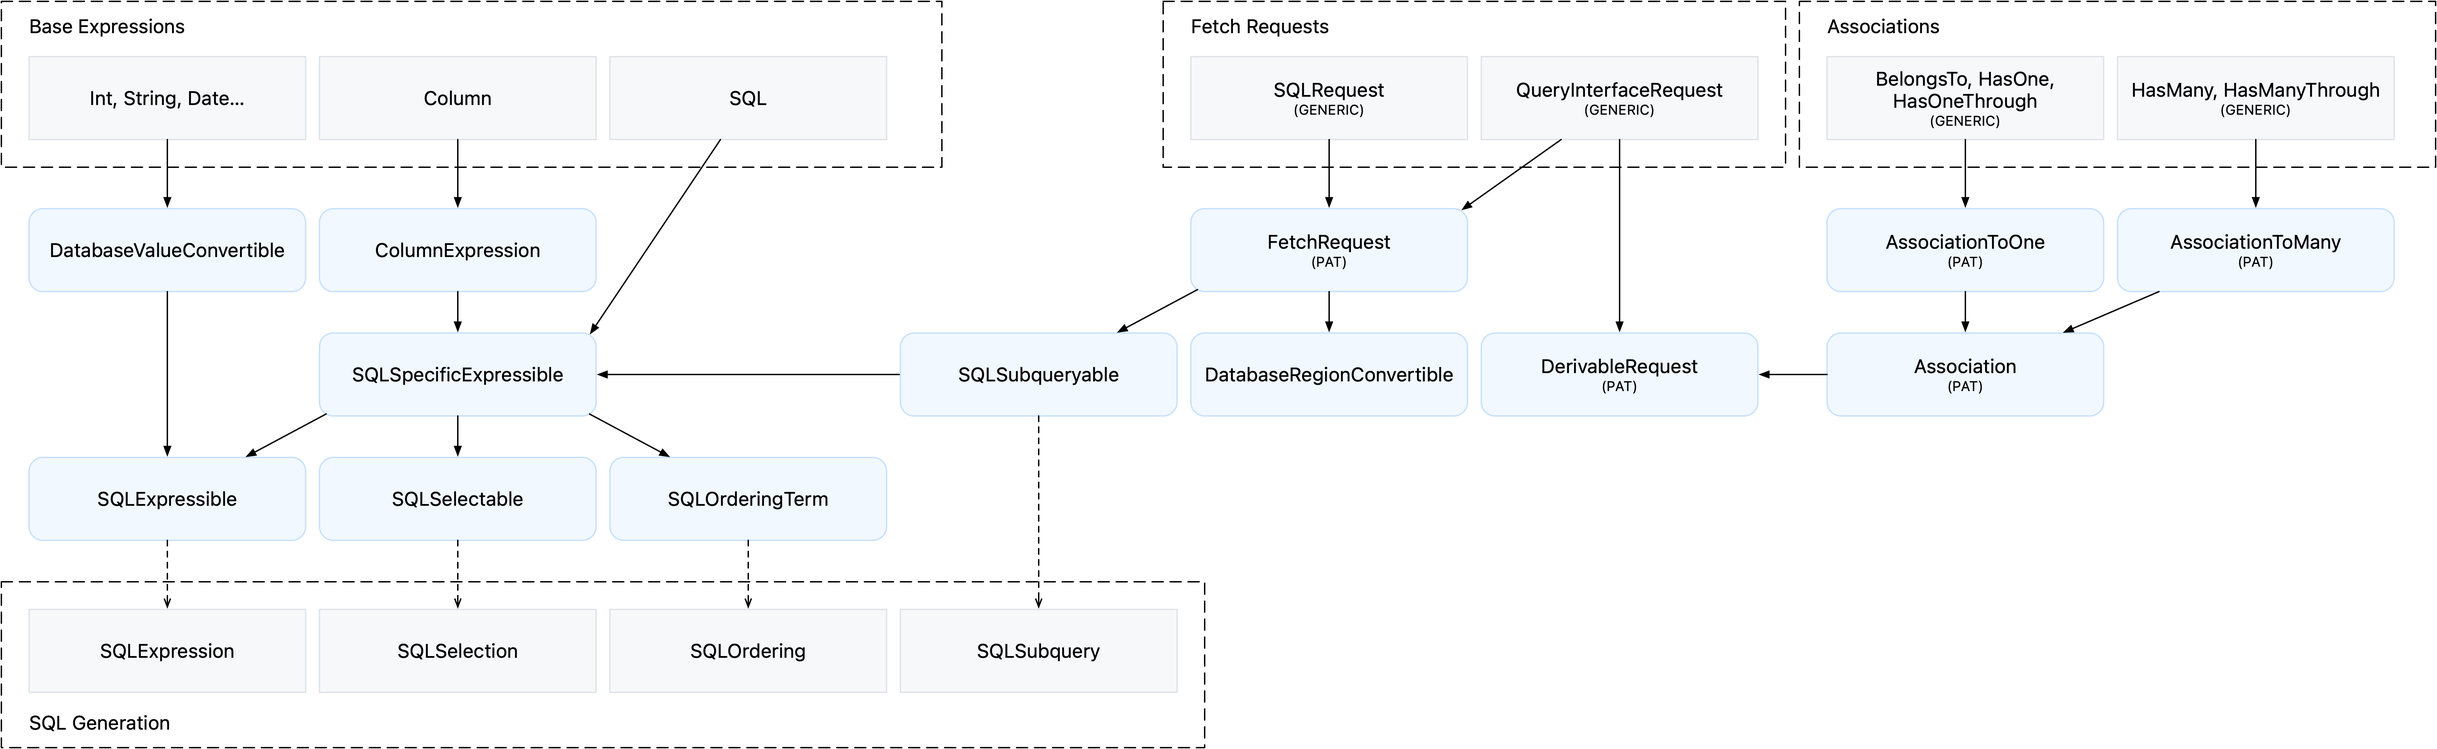
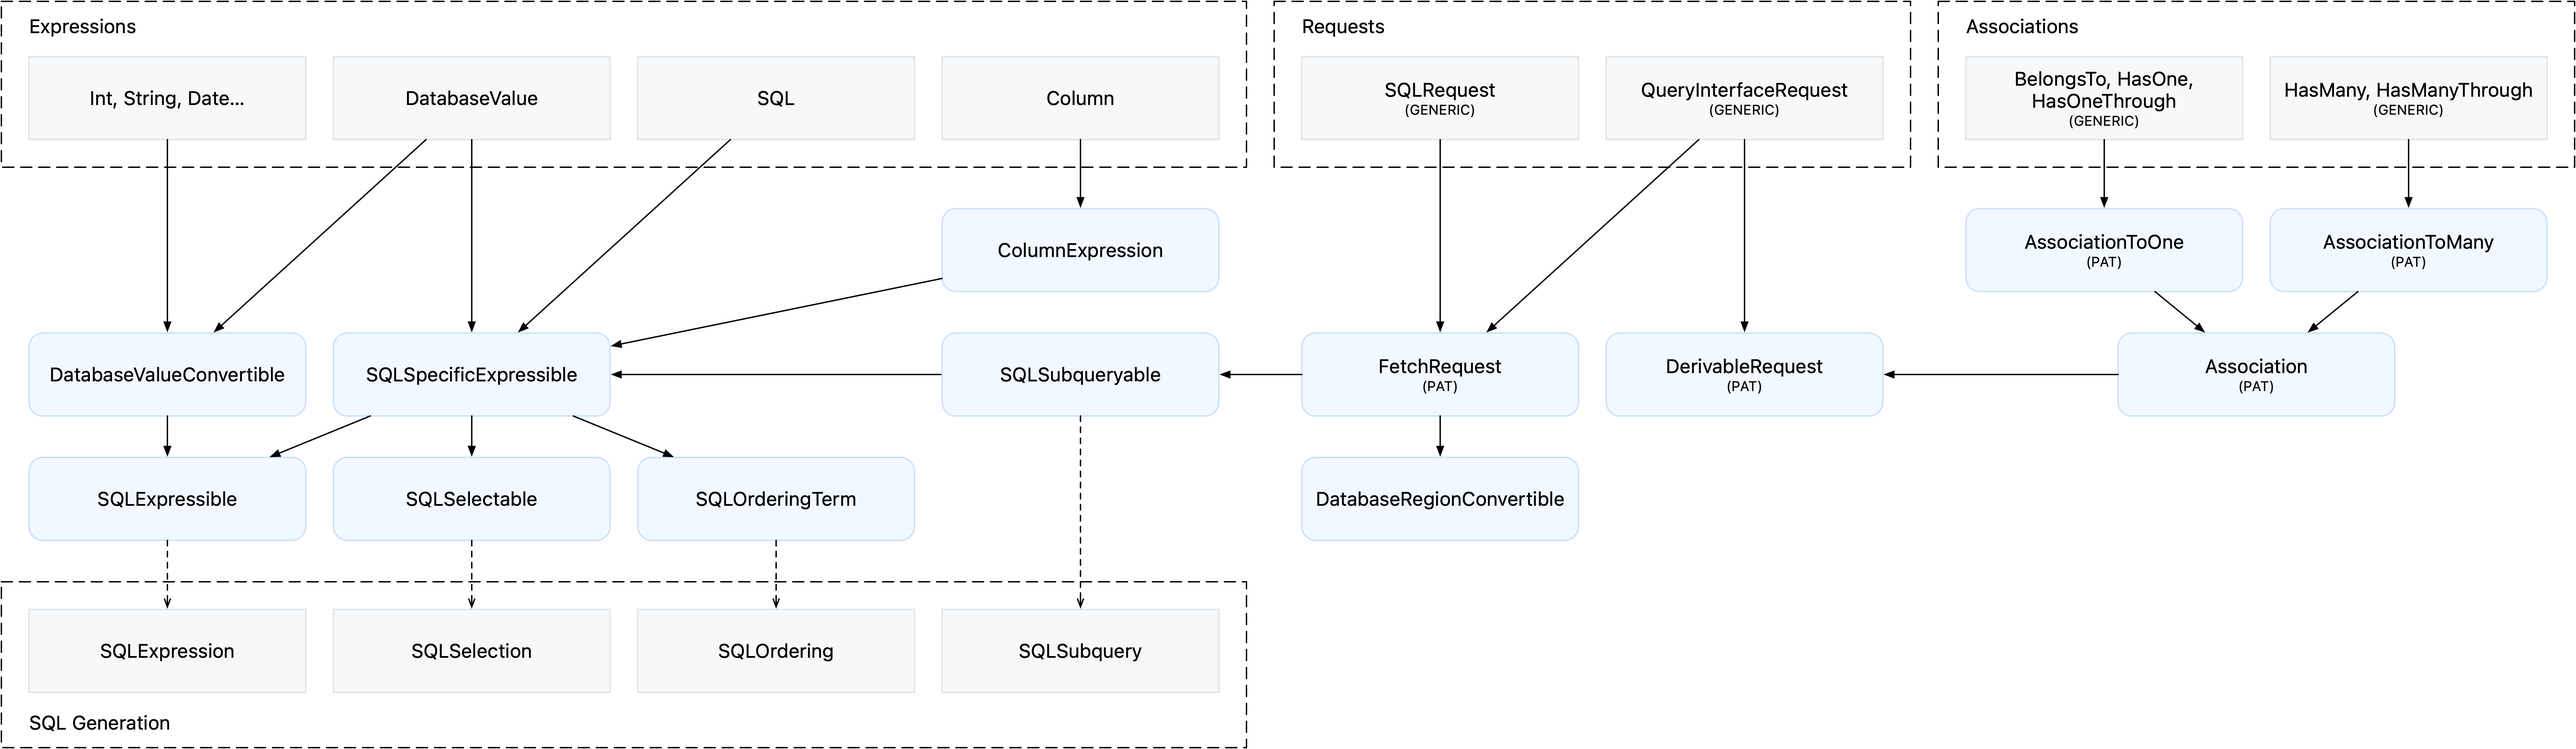
Query Interface Organization

diff --git a/Documentation/QueryInterfaceOrganization.md b/Documentation/QueryInterfaceOrganization.md
@@ -13,6 +13,7 @@ Diagram items are described below:
 - [Column]
 - [ColumnExpression]
 - [DatabaseRegionConvertible]
+- [DatabaseValue]
 - [DatabaseValueConvertible]
 - [DerivableRequest]
 - [FetchRequest]
@@ -134,10 +135,32 @@ let observer = try observation.start(in: dbQueue) { (db: Database) in
 }
 ```
 
+### DatabaseValue
+
+`DatabaseValue` is the type for SQL values (integers, doubles, strings, blobs, and NULL). It conforms to [SQLSpecificExpressible].
+
+You generally build a DatabaseValue from a [DatabaseValueConvertible] type:
+
+```swift
+1.databaseValue
+"Hello".databaseValue
+DatabaseValue.null
+```
+
+The query interface will sometimes not accept raw [SQLExpressible] values such as [Int, String, Date], etc. In this case, turn those values into DatabaseValue so that you leverage APIs that need [SQLSpecificExpressible]. For example:
+
+```swift
+// SQL: firstName || ' ' || lastName
+let fullname = [
+    Column("firstName"), 
+    " ".databaseValue,
+    Column("lastName"),
+    ].joined(operator: .concat)
+```
 
 ### DatabaseValueConvertible
 
-`DatabaseValueConvertible` is the protocol for types that can provide SQL values (integers, doubles, strings, blobs, and NULL). It is adopted by Int, String, Date, etc. It conforms to [SQLExpressible] because all SQL values are SQL expressions.
+`DatabaseValueConvertible` is the protocol for types that can provide SQL [DatabaseValue]: integers, doubles, strings, blobs, and NULL. It is adopted by [Int, String, Date], etc. It conforms to [SQLExpressible] because all SQL values are SQL expressions.
 
 ```swift
 protocol DatabaseValueConvertible: SQLExpressible {
@@ -231,7 +254,7 @@ Those supplementary SQL queries are an implementation detail of `PreparedRequest
 
 ### Int, String, Date…
 
-The basic value types conform to [DatabaseValueConvertible] so that they can feed database queries with values:
+The basic value types conform to [DatabaseValueConvertible] so that they can feed database queries with [DatabaseValue]:
 
 ```swift
 // SELECT * FROM player WHERE name = 'O''Brien'
@@ -318,7 +341,7 @@ let request = Player.filter(date(Column("createdAt")) == "2020-01-23")
 
 ### SQLExpressible
 
-`SQLExpressible` is the protocol for all [SQL expressions](https://sqlite.org/syntax/expr.html). It is adopted by [Column], [SQL], [SQLExpression], and also Int, String, Date, etc. It has an `sqlExpression` property which returns an [SQLExpression].
+`SQLExpressible` is the protocol for all [SQL expressions](https://sqlite.org/syntax/expr.html). It is adopted by [Column], [SQL], [SQLExpression], and also [Int, String, Date], etc. It has an `sqlExpression` property which returns an [SQLExpression].
 
 ```swift
 protocol SQLExpressible {
@@ -326,7 +349,7 @@ protocol SQLExpressible {
 }
 ```
 
-SQLExpressible-conforming types include types which are not directly related to SQL, such as Int, String, Date, etc. Because of this, SQLExpressible has limited powers that prevent misuses and API pollution. For full-fledged expressions, see [SQLSpecificExpressible]. For example, compare:
+SQLExpressible-conforming types include types which are not directly related to SQL, such as [Int, String, Date], etc. Because of this, SQLExpressible has limited powers that prevent misuses and API pollution. For full-fledged SQL expressions, see [SQLSpecificExpressible]. For example, compare:
 
 ```swift
 Player.filter(1)     // Compiler warning (will become an error in the next major release)
@@ -435,7 +458,7 @@ Functions and methods that build result columns should return an SQLSelection va
 
 ### SQLSpecificExpressible
 
-`SQLSpecificExpressible` is the protocol for all SQL expressions, but values such as Int, String, Date, etc. It conforms to [SQLExpressible], [SQLSelectable], and [SQLOrderingTerm]. It is adopted by [Column], [SQL], and [SQLExpression]. It is also adopted through [SQLSubqueryable] by [QueryInterfaceRequest] and [SQLRequest].
+`SQLSpecificExpressible` is the protocol for all SQL expressions, except values such as [Int, String, Date], etc. It conforms to [SQLExpressible], [SQLSelectable], and [SQLOrderingTerm]. It is adopted by [Column], [SQL], and [SQLExpression]. It is also adopted through [SQLSubqueryable] by [QueryInterfaceRequest] and [SQLRequest].
 
 ```swift
 protocol SQLSpecificExpressible: SQLExpressible, SQLSelectable, SQLOrderingTerm { }
@@ -488,11 +511,13 @@ myRequest(Player.select(...).filter(...))
 [ColumnExpression]: #columnexpression
 [DatabaseRegionConvertible]: #databaseregionconvertible
 [DatabaseRegionObservation]: ../README.md#databaseregionobservation
+[DatabaseValue]: #databasevalue
 [DatabaseValueConvertible]: #databasevalueconvertible
 [DerivableRequest]: #derivablerequest
 [FetchableRecord]: ../README.md#fetchablerecord-protocol
 [FetchRequest]: #fetchrequest
 [Int, String, Date…]: #int-string-date
+[Int, String, Date]: #int-string-date
 [query interface]: ../README.md#the-query-interface
 [QueryInterfaceRequest]: #queryinterfacerequest
 [SQL]: #sql
